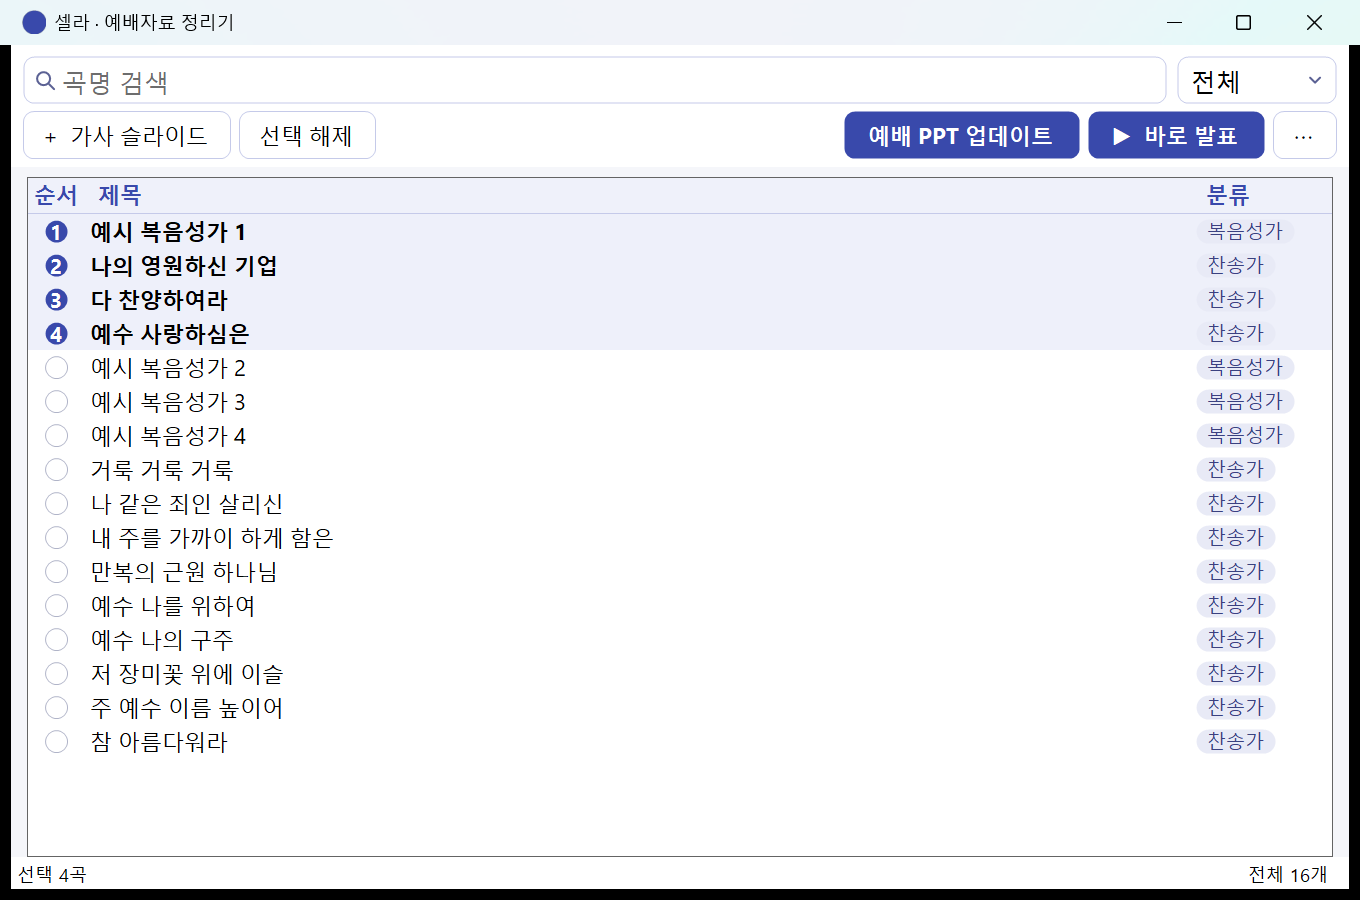
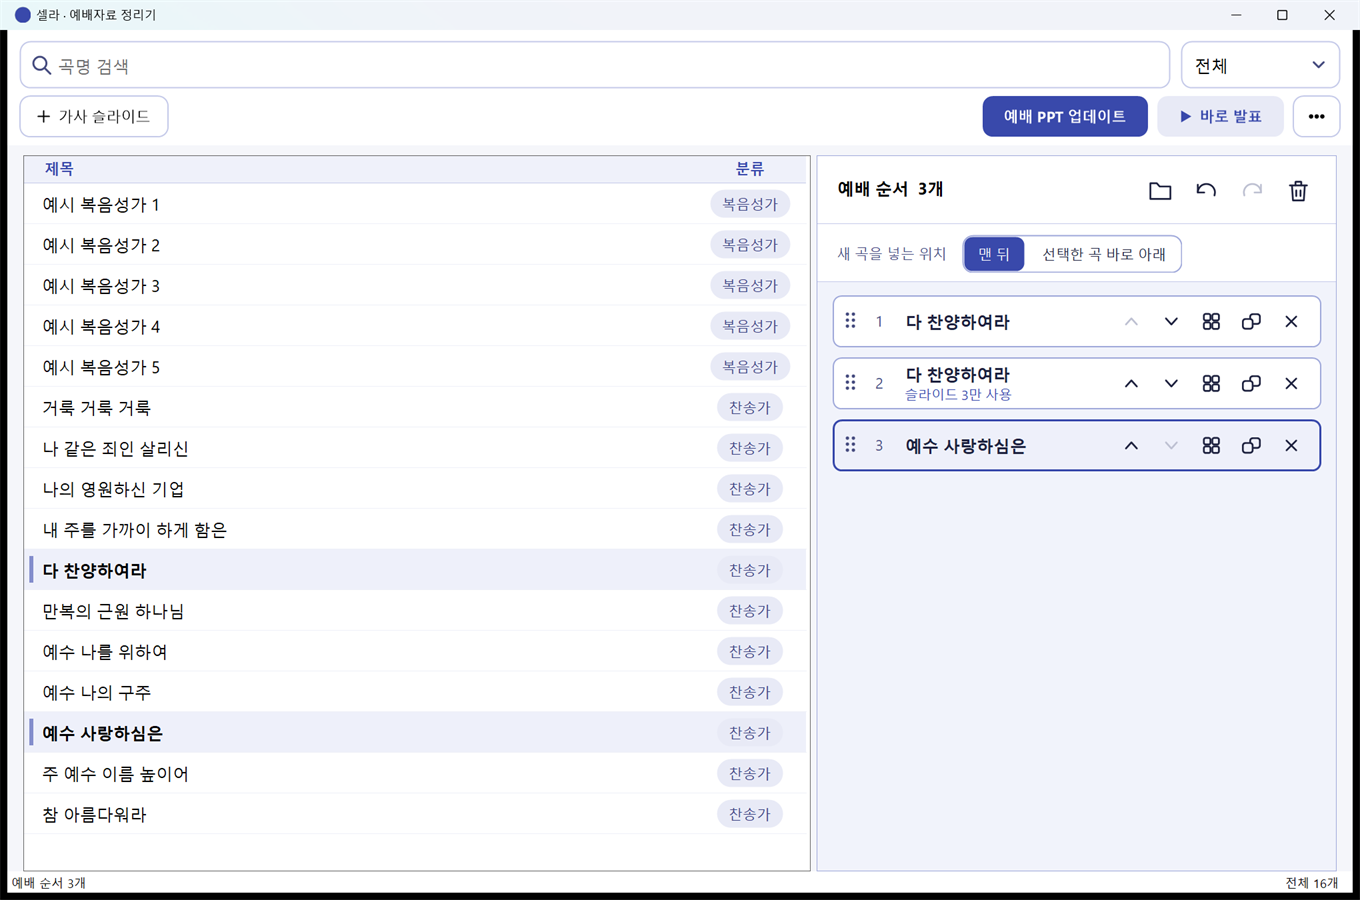
README: 예배 순서, 후렴만 넣기, 순서 저장, 설정 (1.4.0)

diff --git a/README.md b/README.md
@@ -7,10 +7,16 @@
 ## 이런 일을 합니다
 
 - **곡 검색**: 폴더에 흩어진 PPT를 곡명으로 바로 찾습니다. 여러 단어를 띄어 쓰면 모두 포함된 곡을 찾습니다. 번호나 태그(예: 구 찬송가 번호)를 달아 두면 그 번호로도 찾아집니다.
-- **순서 고르기**: 곡 왼쪽의 원을 눌러 예배 순서대로 고릅니다. 고른 곡은 번호가 매겨져 목록 맨 위에 모입니다.
-- **예배 PPT 업데이트**: 고른 곡들을 순서대로 합쳐 하나의 파일로 저장합니다. 저장 위치를 한 번만 정하면 다음부터는 같은 파일이 계속 업데이트되어, 새 파일이 계속 생기지 않습니다. 합친 파일은 맨 앞에 빈 검은 슬라이드가 하나 들어가서 검은 화면으로 시작합니다. 합치는 도중 오류가 나도 기존 파일은 그대로 남습니다.
-- **바로 발표**: 파일로 합치지 않고, 고른 순서 그대로 앱에서 전체화면으로 발표합니다. 발표는 검은 화면으로 시작하고, 처음 누르는 → (또는 클릭)에 첫 슬라이드가 나옵니다(셀라 양식의 슬라이드에 가장 잘 맞습니다. [아래 안내](#바로-발표와-슬라이드-양식) 참고). 모니터가 둘이면 발표자 화면이 조작하는 모니터에 함께 나옵니다.
+- **예배 순서 만들기**: 곡을 누르면 오른쪽 "예배 순서"에 들어갑니다. 같은 곡을 여러 번 넣을 수 있고, 카드를 끌어서 순서를 바꾸고, 복제·빼기·되돌리기(Ctrl+Z)·다시 하기(Ctrl+Y)·복사 붙여넣기(Ctrl+C/V)를 할 수 있습니다. 카드를 더블클릭하면 그 곡의 PPT가 열립니다. 마지막 순서는 껐다 켜도 그대로 남습니다.
+- **후렴만 넣기**: 카드의 네모 네 칸 버튼을 누르면 그 곡의 슬라이드가 그림으로 나옵니다. 쓸 슬라이드만 체크하면(예: 후렴만) 예배 PPT 업데이트와 바로 발표에 그 슬라이드만 들어갑니다. "후렴만", "1절" 같은 버튼으로 한 번에 고를 수 있고, 그 자리에서 가사를 고칠 수도 있습니다.
+- **순서 저장**: 머리글의 폴더 버튼으로 지금 순서를 이름 붙여 저장해 두고 나중에 불러옵니다.
+- **예배 PPT 업데이트**: 고른 곡들을 순서대로 합쳐 하나의 파일로 저장합니다. 저장 위치를 한 번만 정하면 다음부터는 같은 파일이 계속 업데이트되어, 새 파일이 계속 생기지 않습니다. 합친 파일은 맨 앞에 빈 검은 슬라이드가 하나 들어가서 검은 화면으로 시작합니다(⋯ → 설정에서 끌 수 있습니다). 합치는 도중 오류가 나도 기존 파일은 그대로 남습니다.
+- **바로 발표**: 파일로 합치지 않고, 예배 순서 그대로 앱에서 전체화면으로 발표합니다. 발표는 검은 화면으로 시작하고, 처음 누르는 → (또는 클릭)에 첫 슬라이드가 나옵니다(셀라 양식의 슬라이드에 가장 잘 맞습니다. [아래 안내](#바로-발표와-슬라이드-양식) 참고). 모니터가 둘이면 발표자 화면이 조작하는 모니터에 함께 나오고, 발표를 띄울 화면은 ⋯ → 설정에서 고를 수 있습니다.
 - **가사 슬라이드 만들기**: 가사나 성경 구절을 붙여 넣으면 검정 배경에 흰 글씨 슬라이드를 만들어 줍니다. 절 구분, 후렴·브릿지 표시가 자동으로 붙고, 오른쪽 미리보기로 결과를 확인할 수 있습니다. 한 줄이 상자보다 약간 길면(대략 17~20자) 글자가 자동으로 조금 작아져서(최소 40pt) 줄바꿈 없이 한 줄에 들어갑니다. 그보다 더 길면 자동으로 줄이 바뀌고, 미리보기에도 그대로 나타나니 직접 나눠 주세요. 이 규칙은 새로 만드는 슬라이드부터 적용되며, 이미 만든 곡은 우클릭 **가사/제목 수정**으로 다시 만들면 적용됩니다.
+
+- **설정**: ⋯ → 설정에서 글자 크기(Ctrl +/- 로도 됩니다), 움직임 효과(느린 PC라면 끄세요), 예배 PPT 저장 위치, 발표 화면, 검은 화면 시작을 정합니다.
+
+![슬라이드 고르기](images/slides.png)
 
 ![가사 슬라이드 만들기](images/lyric.png)
 
@@ -28,7 +34,7 @@
 
 1. 처음 실행하면 폴더 관리 창이 열립니다. **폴더 추가**로 찬송가 PPT가 들어 있는 폴더를 고릅니다. 폴더 이름이 곧 분류 이름이 됩니다. 폴더를 여러 개(예: 찬송가, 복음성가) 추가할 수 있습니다.
 2. 곡 목록이 만들어지면 검색창에 곡명을 입력해 곡을 찾습니다. 검색창 오른쪽 끝의 ×를 누르면 입력한 글자가 한 번에 지워집니다.
-3. 곡 왼쪽의 원을 눌러 순서를 고릅니다.
+3. 곡을 눌러 오른쪽 예배 순서에 넣고, 필요하면 끌어서 순서를 바꿉니다.
 4. **예배 PPT 업데이트**로 한 파일에 합치거나, **▶ 바로 발표**로 바로 발표합니다.
 
 폴더에 PPT를 새로 넣거나 바꾼 뒤에는 오른쪽 위의 **⋯ → 새로고침**을 누르면 목록에 반영됩니다. (.pptx 파일만 인식합니다.)
@@ -45,7 +51,7 @@
 
 ### 곡 우클릭 메뉴
 
-제목 수정, 번호/태그 수정, 가사/제목 수정, 탐색기에서 보기, 파일 삭제(휴지통으로 이동)를 할 수 있습니다. 자세한 설명은 프로그램 안의 **⋯ → 도움말**에 있습니다.
+파일 열기, 제목 수정, 번호/태그 수정, 가사/제목 수정, 탐색기에서 보기, 파일 삭제(휴지통으로 이동)를 할 수 있습니다. 자세한 설명은 프로그램 안의 **⋯ → 도움말**에 있습니다.
 
 ## 바로 발표와 슬라이드 양식
 
